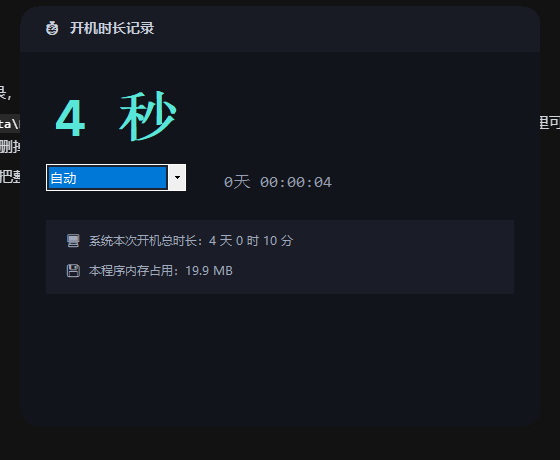
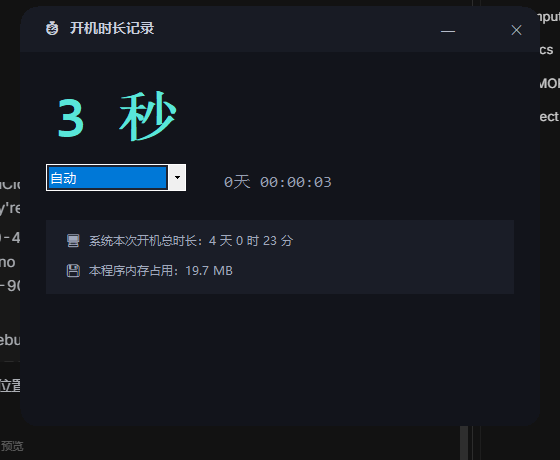
修复标题栏 ✕/— 按钮未定位到右上角而被标题遮挡的问题
Made-with: Proma

diff --git a/Program.cs b/Program.cs
@@ -109,8 +109,10 @@ namespace UpTimeTracker
             _titleBar.Controls.Add(_titleLabel);
 
             _btnMin = MakeTitleButton("—", 90);
+            _btnMin.Location = new Point(520 - 46 - 90, 0); // 右上角：最小化
             _btnMin.Click += delegate { WindowState = FormWindowState.Minimized; };
             _btnClose = MakeTitleButton("✕", 46);
+            _btnClose.Location = new Point(520 - 46, 0);    // 最右上角：关闭/后台运行
             _btnClose.Click += OnCloseClicked;
             _titleBar.Controls.Add(_btnMin);
             _titleBar.Controls.Add(_btnClose);
